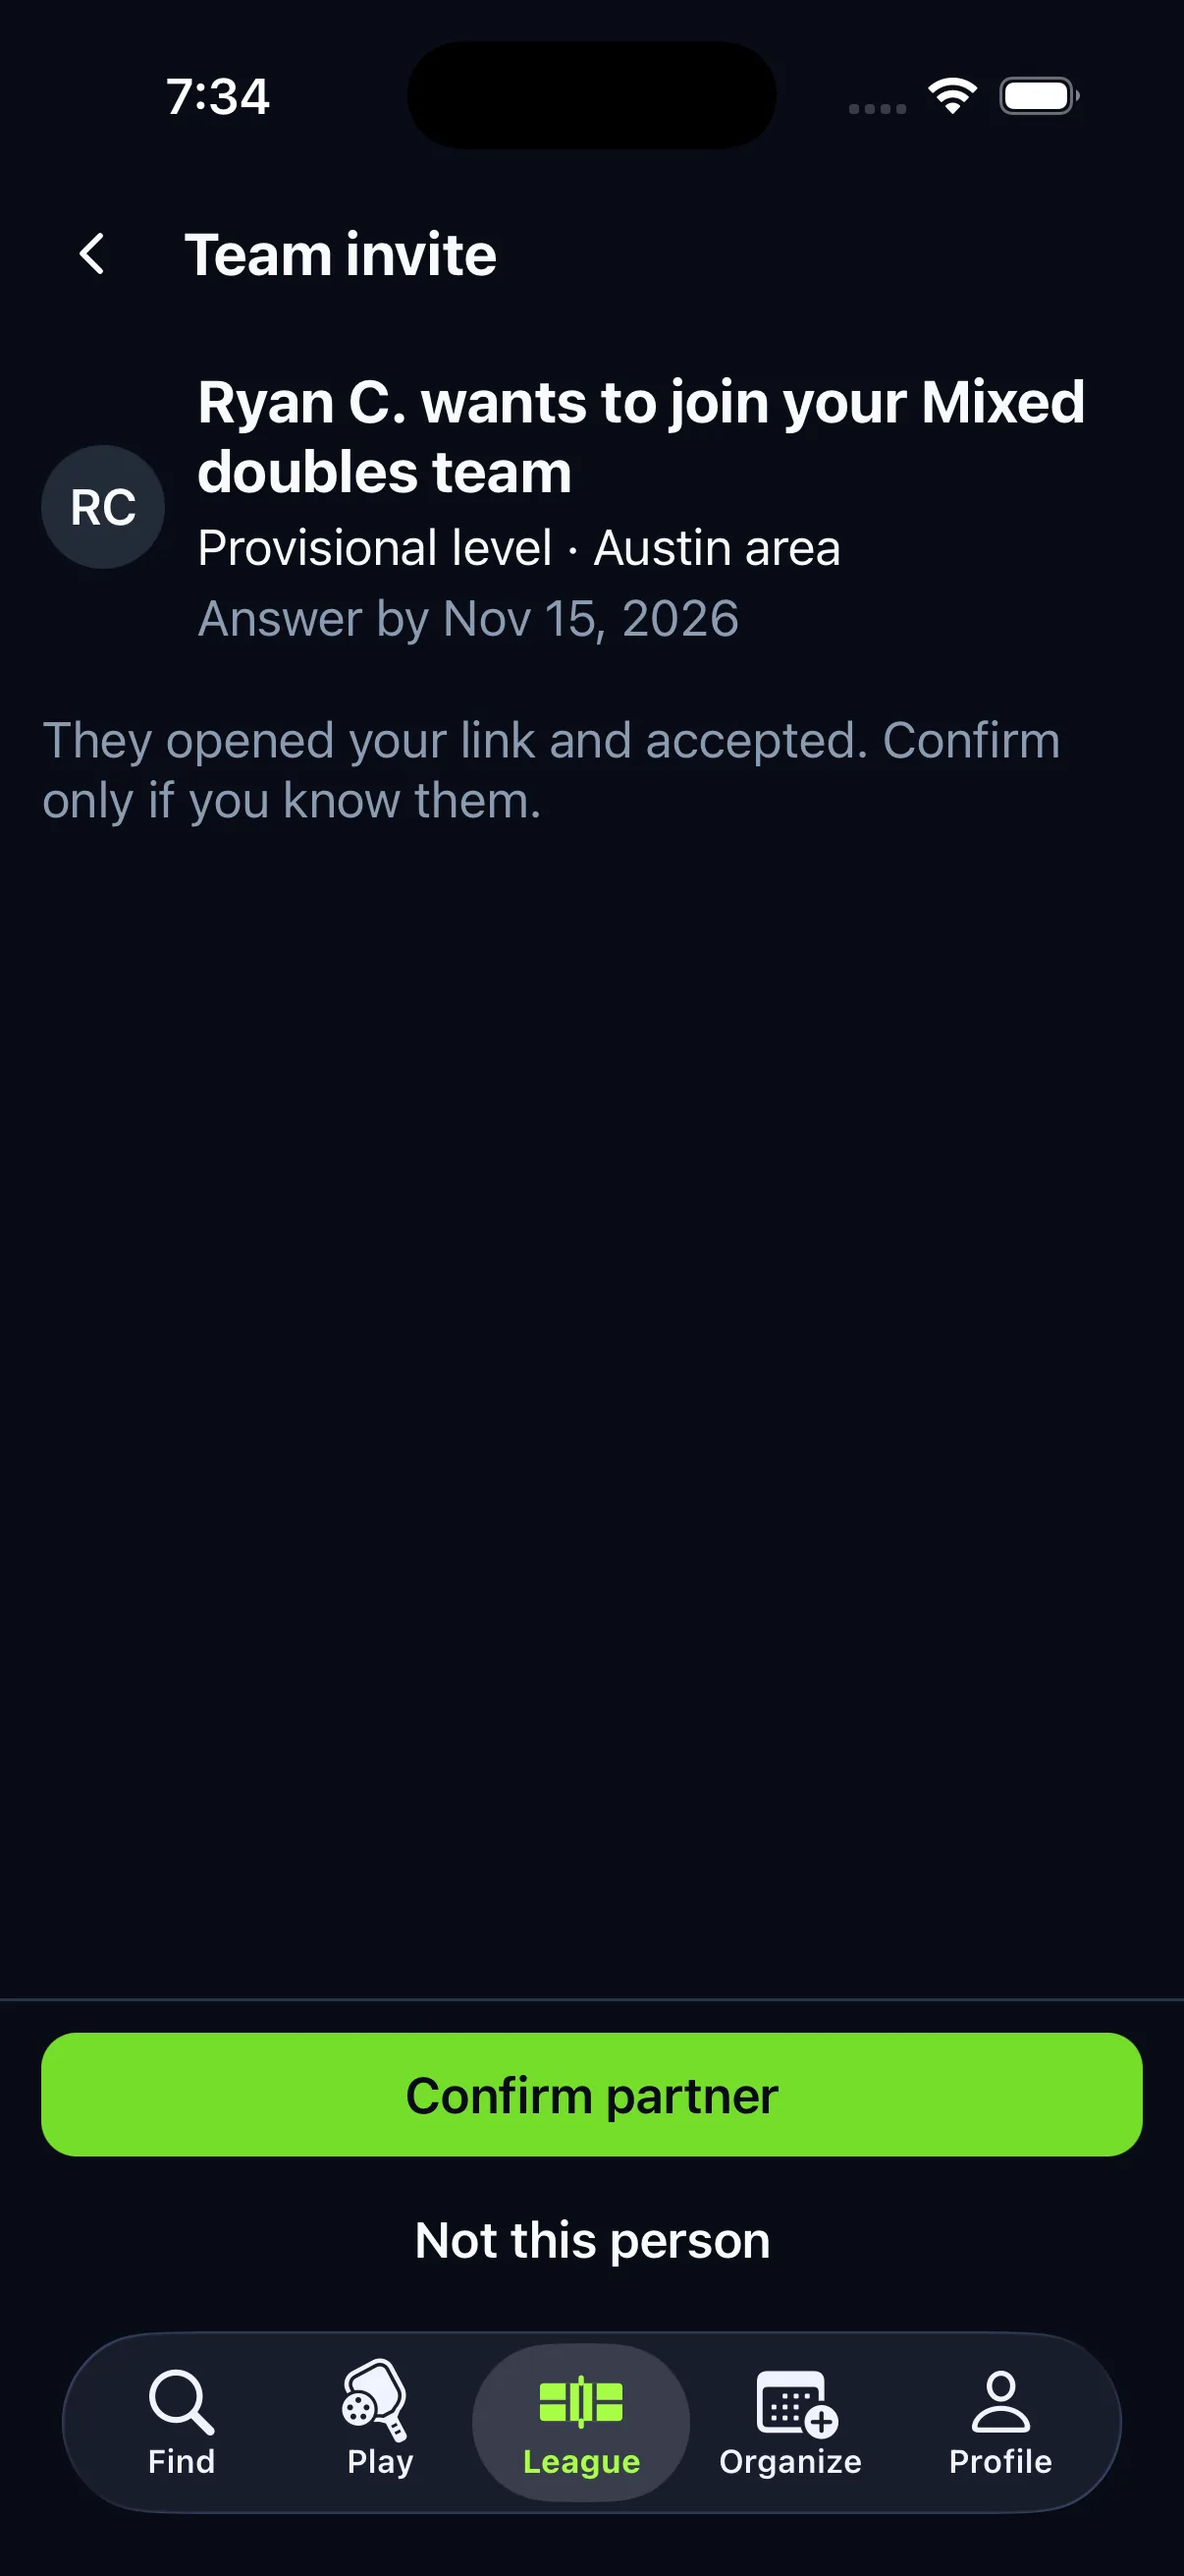
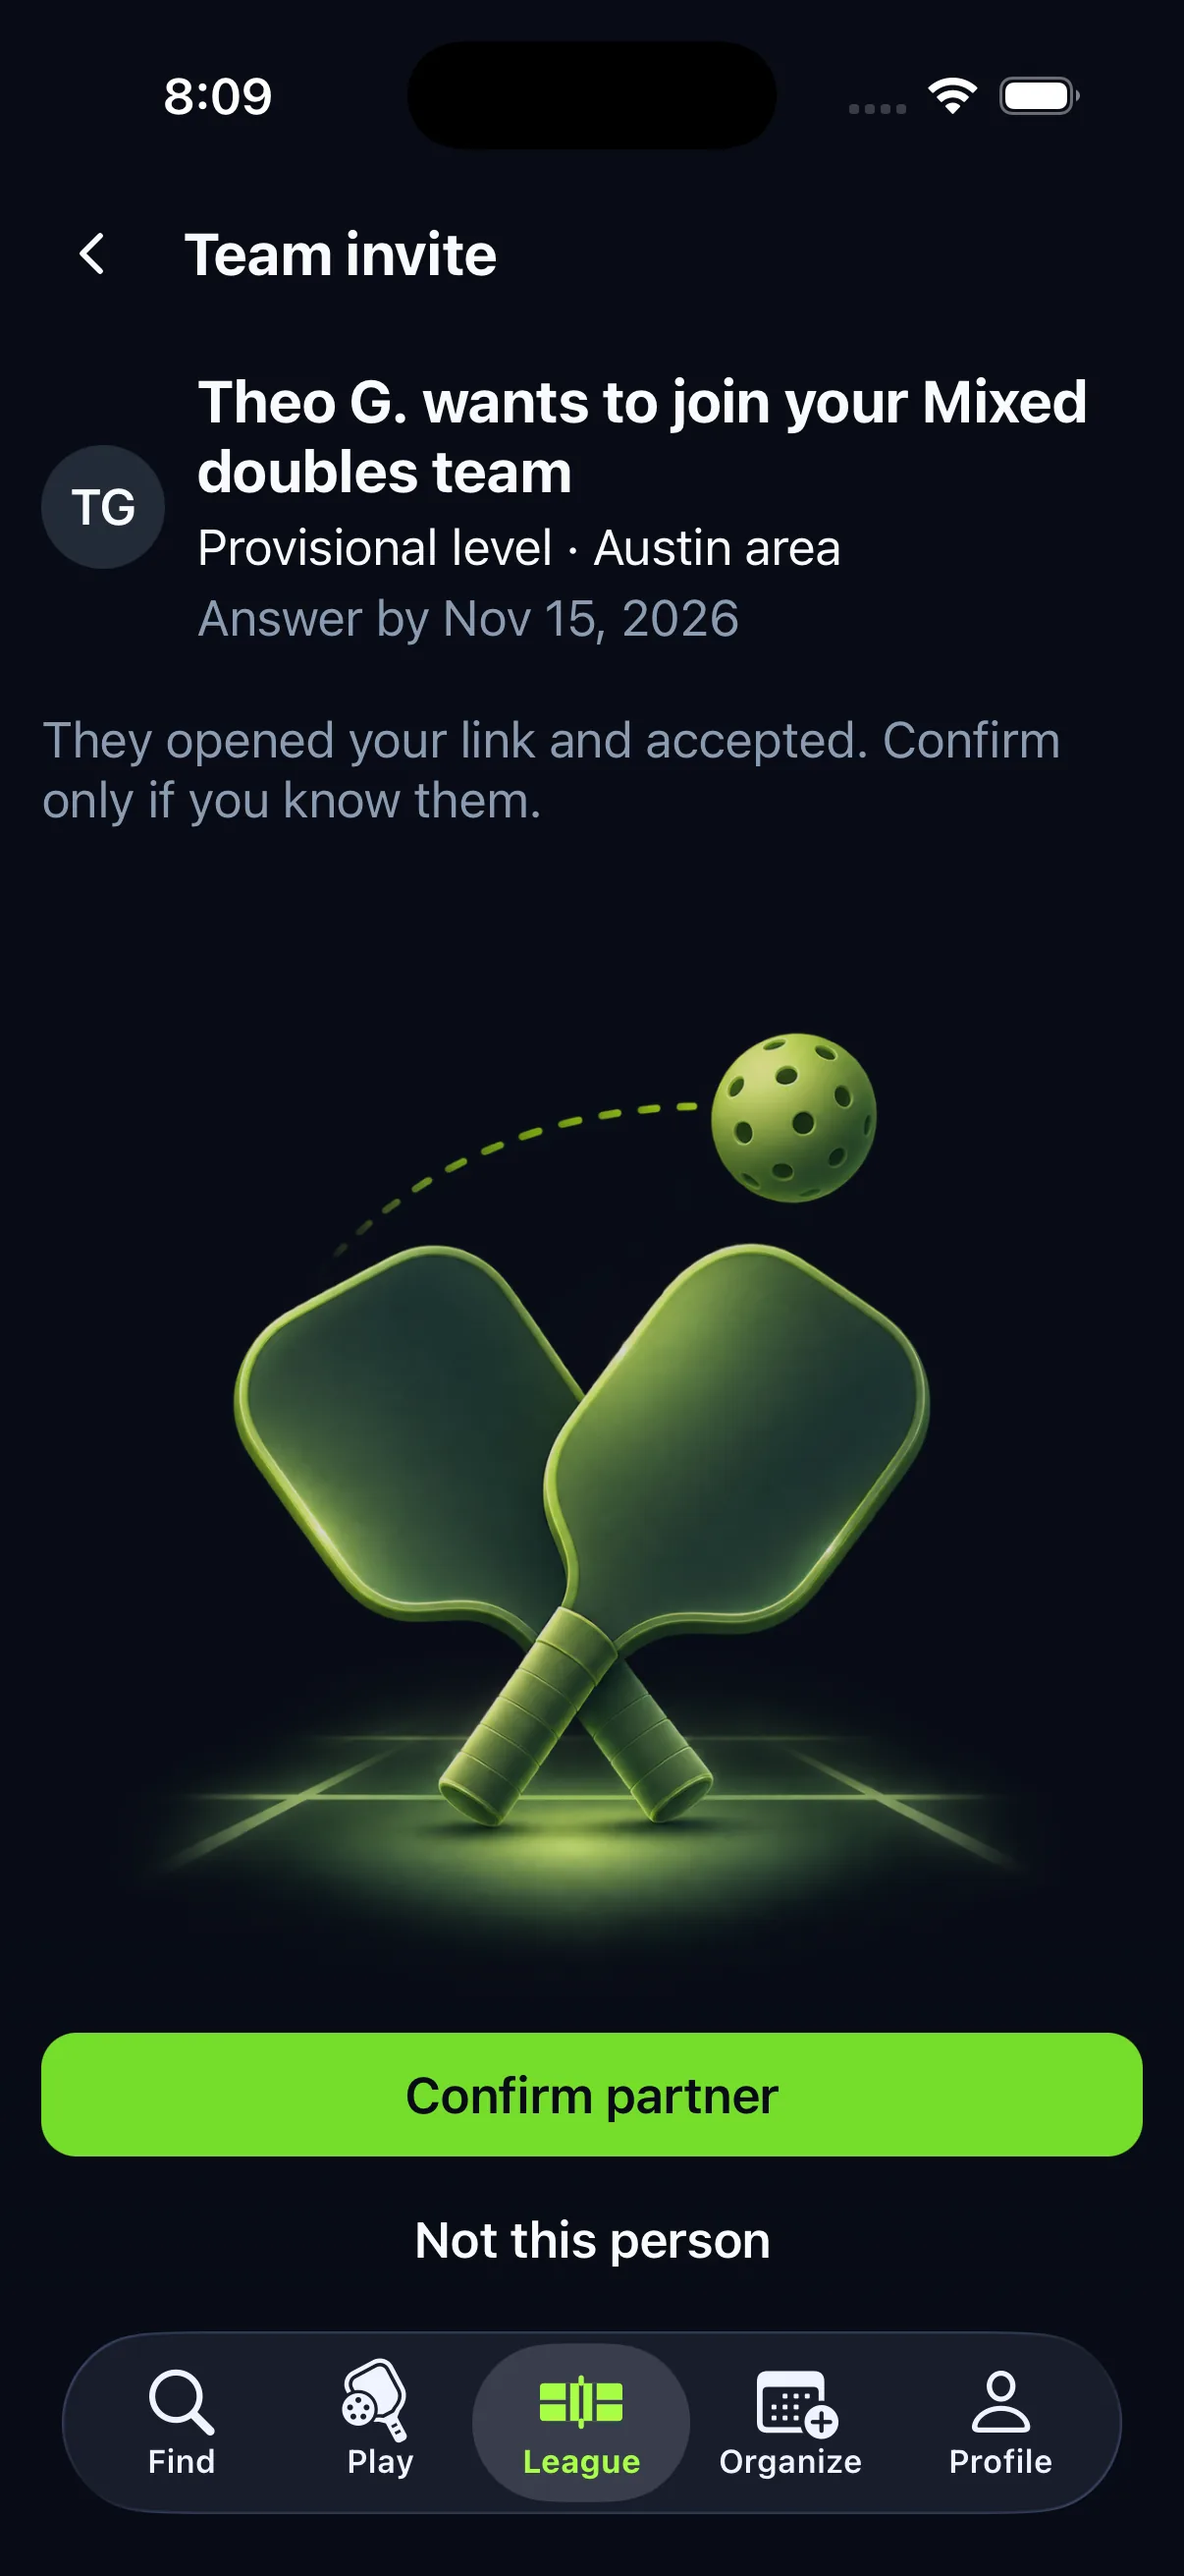
docs: retake eight League screens for pinned footers and new art
Withdraw menu and confirm, the team-link waiting/confirm/formed screens,
the scanned invite, the empty challenges list and the booked match were
captured before the pinned footers and illustrations. They now show the
current app, and the team-link and booked captions match what is on screen
(Casey and Theo, Add to calendar above Match chat).

Verified by viewing each retaken shot and the source conditions that
decide the footer and art. Not retaken: Match found, proposal-dependent,
Ryan sign-up and setup screens, which this stack cannot reproduce.

diff --git a/index.html b/index.html
@@ -170,7 +170,7 @@ dialog#lb[open] { display: grid; grid-template-rows: auto minmax(0, 1fr) auto; }
 </dialog>
 
 <script>
-const IMAGE_VERSION = '20261109c';
+const IMAGE_VERSION = '20261109d';
 const CHAPTERS = [
   { id: 'join', title: 'Join the League', who: 'What joining takes, then how you play, venues and times, and the release and terms.', person: 'Blake', shots: [
     ['03b-landing', 'Before you join', 'The League tab says joining is free on any day, skipping a week costs nothing, and 17 players have joined in the Austin area. Games can go to DUPR or be just for fun: joining takes about five minutes, and DUPR is optional.'],
@@ -308,9 +308,9 @@ const CHAPTERS = [
     ['58a-team-link-how', 'How you play', 'Setup arrives with Team doubles already ticked: then he’ll accept Jade M.’s invite.'],
     ['58b-team-link-joined', 'In the League', 'Setup ends with Accept Jade M.’s invite.'],
     ['58c-team-link-accept', 'Accept as Ryan', 'The invite now says You’re accepting as Ryan C., with Accept pinned at the bottom.'],
-    ['58d-team-link-waiting', 'Waiting for Jade', 'Jade confirms it is Ryan before the team forms and has until Nov 15 to answer. Ryan will hear when she does.'],
-    ['58e-team-link-confirm', 'Jade confirms', 'On Jade’s phone: Ryan C. opened the link and accepted. Confirm only if she knows him: Confirm partner is pinned at the bottom, with Not this person under it.'],
-    ['58f-team-link-formed', 'You’re a team', 'Jade and Ryan are a Mixed doubles team, and its matchmaking is already on: Looking since today.'],
+    ['58d-team-link-waiting', 'Waiting for Casey', 'On Theo’s phone after accepting the link: Casey confirms it is him before the team forms and has until Nov 15 to answer. Go to League is pinned at the bottom.'],
+    ['58e-team-link-confirm', 'Casey confirms', 'On Casey’s phone: Theo G. opened the link and accepted. Confirm only if she knows him: Confirm partner is pinned at the bottom, with Not this person under it.'],
+    ['58f-team-link-formed', 'You’re a team', 'Casey and Theo are now a Mixed doubles team. Adding times for the week comes next, and Open team is pinned at the bottom.'],
     ['58g-member-invite', 'An existing member', 'Hannah is already in the League, so Jade’s Women’s doubles invite goes straight to Accept as Hannah W.'],
     ['58h-member-formed', 'Searching together', 'On Hannah’s League home the team with Jade is on, looking since yesterday, beside her own singles search, which is off.'],
   ]},
@@ -340,7 +340,7 @@ const CHAPTERS = [
     ['80-challenge-received', 'Answer a challenge', 'Jade challenged Casey to Singles at Pease Park Courts on Thursday at 6 PM. It is a stretch match: it still counts, but with a big skill gap a win moves ratings very little. Accept is pinned at the bottom, with Decline under it.'],
     ['81-challenge-accepted', 'Agree on a time', 'Both have accepted Maya’s Let’s find a time challenge, so it needs a time by Sun, Nov 15. Set time is pinned at the bottom, with Open chat under it for agreeing one.'],
     ['82-challenge-set-time', 'Set a time', 'Casey picks Thursday, Nov 12 at 6 PM. While the time panel is open, Save time is pinned as the screen’s one green button, with Cancel under it.'],
-    ['83-challenge-booked', 'Booked', 'With a time set, the challenge becomes a confirmed match at Mueller Lake Park Courts, with Add to calendar and Match chat.'],
+    ['83-challenge-booked', 'Booked', 'With a time set, the challenge becomes a confirmed match at Mueller Lake Park Courts. It opens with Add to calendar above Match chat.'],
     ['70c-challenges-list', 'The Challenges list', 'Open challenges are grouped: Maya’s (needs a time) and Jade’s (to answer) under Needs you, Casey’s two open links under Waiting, and Priya’s decline and Casey’s withdrawn link under Closed for 7 days. New challenge stays pinned at the bottom; booked challenges leave the list for Your matches.'],
     ['84-withdraw-menu', 'Withdraw a challenge', 'Nobody has taken Casey’s second link, so the options menu offers Withdraw challenge.'],
     ['85-withdraw-confirm', 'Confirm withdrawal', 'Everyone challenged is told it is off, and it cannot be undone.'],
